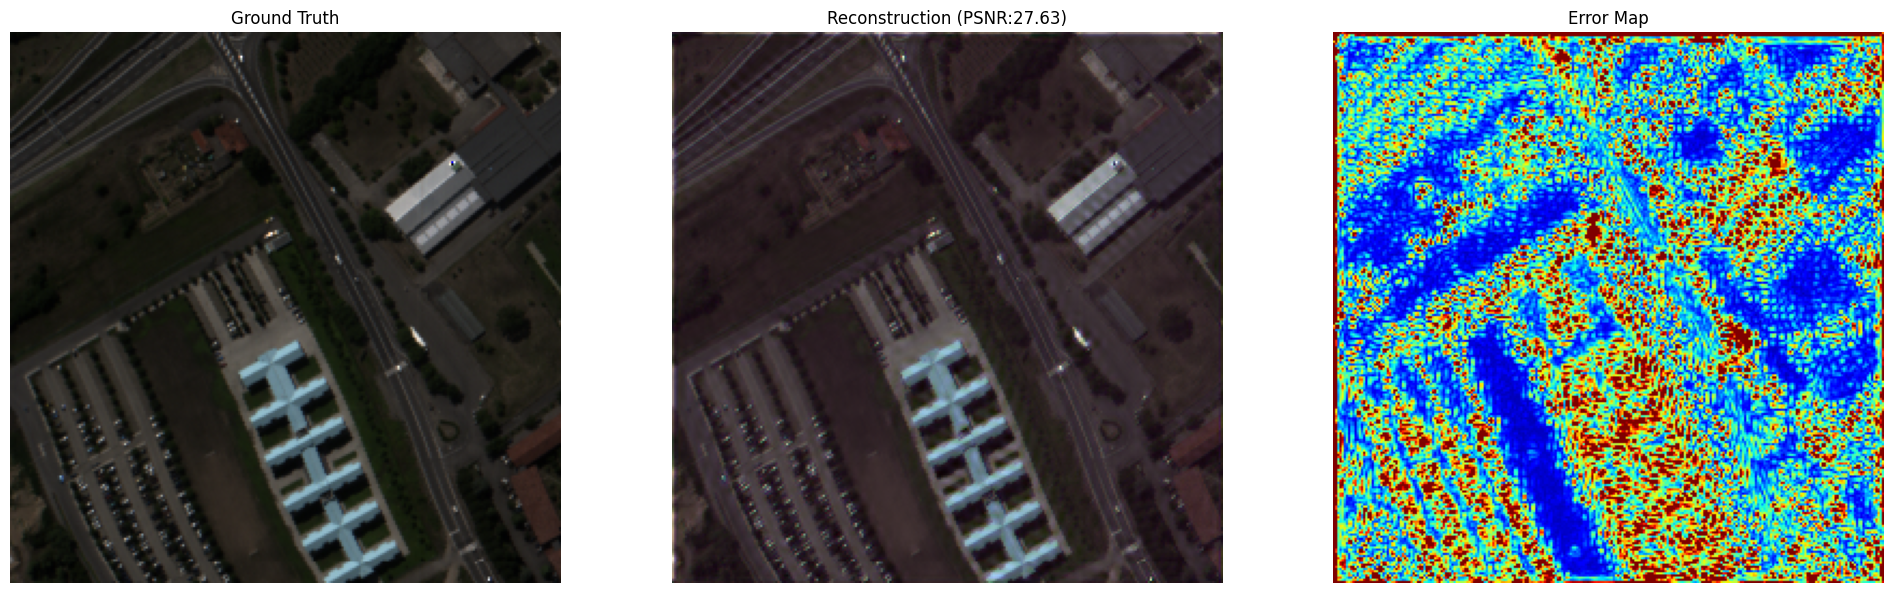
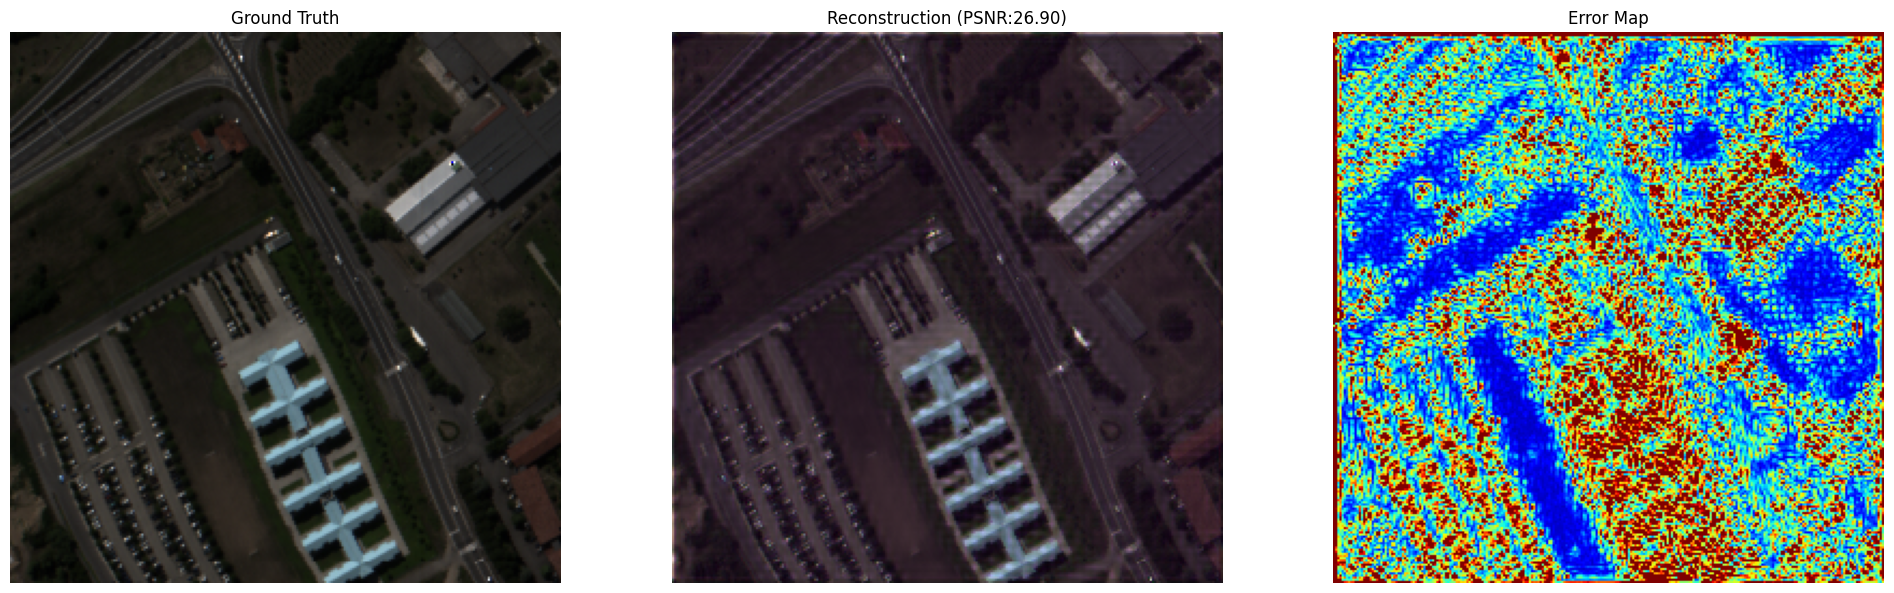
二次上传 CLoRF-Fusion 项目代码

diff --git a/train.py b/train.py
@@ -40,8 +40,8 @@ parser.add_argument('--channels_msi', type=int, default=4, help='Number of MSI b
 parser.add_argument('--patch_size', type=int, default=64, help='Training patch size')
 
 # Training settings
-parser.add_argument('--epochs', type=int, default=300, help='Number of training epochs') # 默认改为300
-parser.add_argument('--batch_size', type=int, default=16, help='Batch size')
+parser.add_argument('--epochs', type=int, default=500, help='Number of training epochs') # 默认改为300
+parser.add_argument('--batch_size', type=int, default=2, help='Batch size')
 parser.add_argument('--lr', type=float, default=1e-3, help='Initial learning rate')
 parser.add_argument('--exp_name', type=str, default='PU_Exp', help='Experiment name for saving logs and models')
 parser.add_argument('--gpu', type=str, default='0', help='GPU ID')
@@ -181,7 +181,7 @@ for epoch in range(args.epochs):
         loss_decomp_.append(loss_decomp.data.cpu().numpy())
 
         # 【重要修复 3】: 将遗漏的自监督约束损失（L_SCT）重新加回总 Loss 中
-        loss_SCT = mse_loss_msi + mse_loss_hsi 
+        loss_SCT = mse_loss_msi + mse_loss_hsi + mse_HSI_R + mse_MSI_R
         loss1 = 0.1*loss_decomp + mse_hsi_fhrHSI + mse_msi_fhrHSI + loss_SCT
         
         for name, param in model.named_parameters():